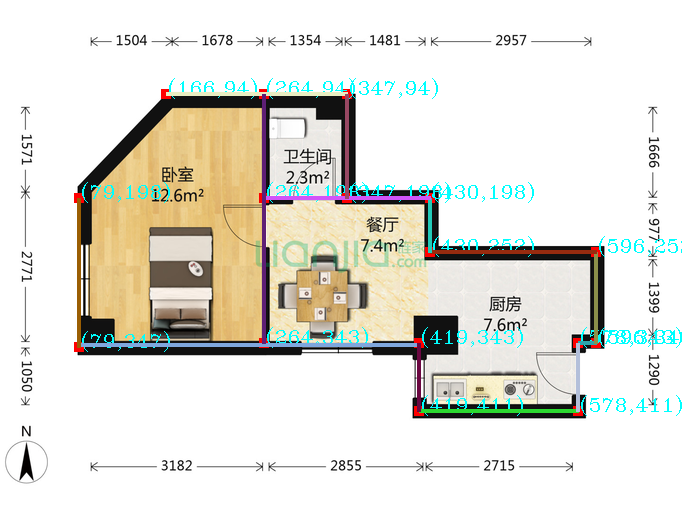
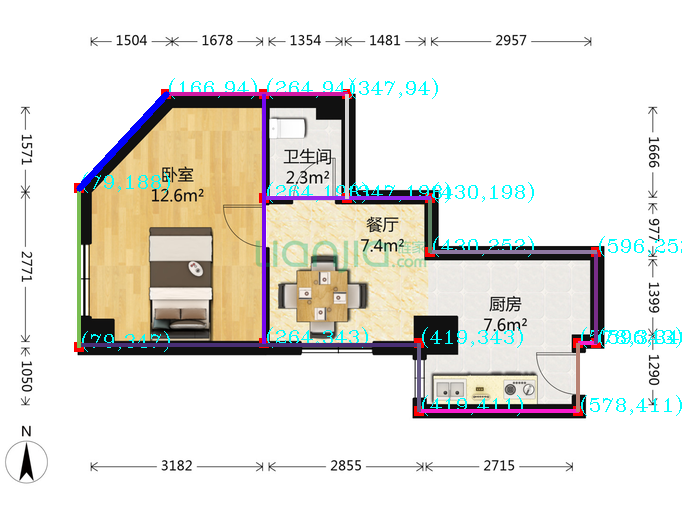
增加斜墙标注数据解析

Changed region(s): [[0.0924, 0.1562, 0.893, 0.8125], [0.154, 0.1875, 0.2463, 0.3125]]

diff --git a/dataPreprocess/dataCheck/utils.py b/dataPreprocess/dataCheck/utils.py
@@ -58,15 +58,21 @@ def isManhattan(line, gap=3):
     return min(abs(line[0][0] - line[1][0]), abs(line[0][1] - line[1][1])) < gap
 
 
-def calcLineDirection(line, gap=3):
-    # 0 水平；1 垂直
-    return int(abs(line[0][0] - line[1][0]) < abs(line[0][1] - line[1][1]))
+def calcLineDirection(line, threshold=5):
+    # 0 水平；1 垂直; -1 斜墙
+    if np.abs(line[0][0] - line[1][0]) > threshold and np.abs(line[0][1] - line[1][1]) > threshold:
+        return -1
+    else:
+        return int(abs(line[0][0] - line[1][0]) < abs(line[0][1] - line[1][1]))
 
 
 def lineRange(line):
     # direction: 0 水平；1 垂直
     direction = calcLineDirection(line)
-    fixedValue = (line[0][1 - direction] + line[1][1 - direction]) // 2
+    if direction == -1:
+        fixedValue = 0
+    else:
+        fixedValue = (line[0][1 - direction] + line[1][1 - direction]) // 2
     minValue = min(line[0][direction], line[1][direction])
     maxValue = max(line[0][direction], line[1][direction])
     return direction, fixedValue, minValue, maxValue
@@ -195,9 +201,11 @@ def draw_lines(all_wall_lines, line_width=2, file_name="Node", background_img_da
             if line_dim == 0:
                 image[max(fixedValue - line_width, 0):min(fixedValue + line_width, floor_plan_img_height),
                 minValue:maxValue + 1, :] = line_color
-            else:
+            elif line_dim == 1:
                 image[minValue:maxValue + 1,
                 max(fixedValue - line_width, 0):min(fixedValue + line_width, floor_plan_img_width), :] = line_color
+            elif line_dim == -1:
+                cv2.line(image, (point_1[0], point_1[1]), (point_2[0], point_2[1]), (255, 0, 0), 5)
         cv2.imwrite(file_name, image)
 
     except Exception as err:
